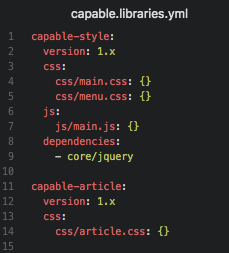
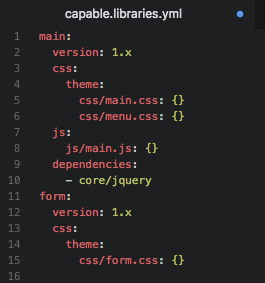
Lots of library fixes

diff --git a/index.html b/index.html
@@ -800,12 +800,9 @@ modules
 
 				<section>
 					<h3>capable.libraries.yml</h3>
-					<div class="left">
-						<img src="images/capable-libraries-file-location.png" />
-					</div>
-					<div class="right">
-						<img src="images/capable-libraries-file.png" />
-					</div>
+					<img src="images/capable-libraries-file-location.png" class="fragment"/>
+					<img src="images/capable-libraries-file.png"  class="fragment"/>
+					<img src="images/css-js-assets.png" class="fragment"/>
 				</section>
 
 				<section>
@@ -818,8 +815,9 @@ modules
 									<a href="https://api.drupal.org/api/drupal/core%21lib%21Drupal%21Core%21Render%21theme.api.php/function/hook_element_info_alter/8.3.x" >hook_element_info_alter()</a>: a module implements this hook to alter the element type defaults defined by a module
 								</li>
 								<li class="fragment">
-									Attach to a render away
+									Attach to a render array
 								</li>
+
 								<li class="fragment">
 									Attach a library to a form
 								</li>
@@ -835,6 +833,20 @@ modules
 							</ul>
 						</li>
 					</ul>
+				</section>
+
+				<section>
+					<h3>Load Library to a Form</h3>
+					<div>
+						<span class="font-20">Attach the library in the buildForm function in the CapableForm.php file</span>
+						<img src="images/form-library-attached.png" />
+					</div>
+				</section>
+
+				<section>
+					<h3>Load Library to a Form</h3>
+					<img src="images/form-library-attached-screenshot.png" style="height: 430px; float: left;"/>
+					<img src="images/form-library-loading.png" style="float:right;"/>
 				</section>
 
 				<section>
